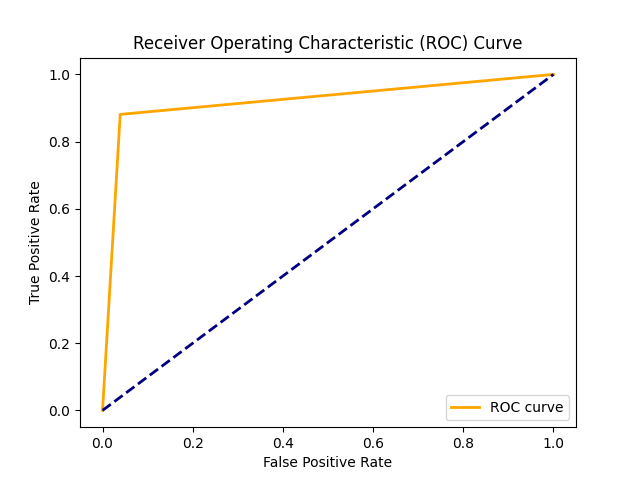
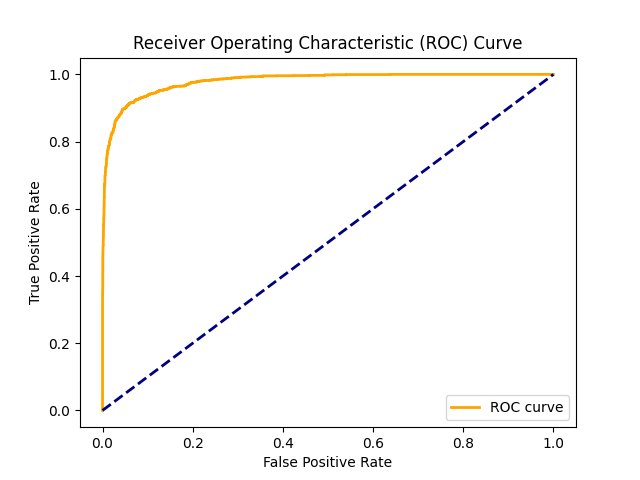
roc_milako_chantya_le_mistake_garecha

Changed region(s): [[0.25, 0.125, 0.8438, 0.2188], [0.1562, 0.25, 0.1875, 0.8438], [0.1875, 0.1875, 0.3438, 0.25]]

diff --git a/chapter/chapter_5.tex b/chapter/chapter_5.tex
@@ -176,7 +176,7 @@
 				}
 			\end{figure}
 
-			\textbf{Area Under ROC Curve = 0.9209}
+			\textbf{Area Under ROC Curve = 0.9796}
 
 \begin{table}[h!]
 		\centering
